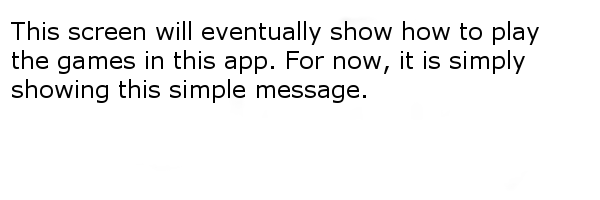
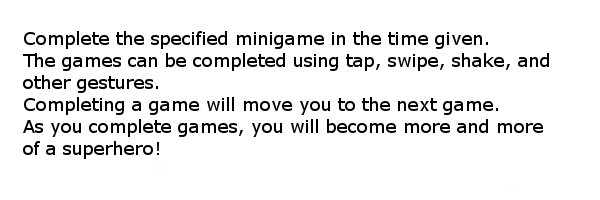
Changed message on HTP screen and size of buttons on HTP screen.

Changed region(s): [[0.0, 0.09, 0.93, 0.57], [0.03, 0.6, 0.93, 0.69], [0.03, 0.72, 0.27, 0.78]]

diff --git a/LibGDX_Generate/core/src/org/TheGivingChild/Engine/HowToPlay.java b/LibGDX_Generate/core/src/org/TheGivingChild/Engine/HowToPlay.java
@@ -61,7 +61,7 @@ public class HowToPlay extends ScreenAdapter{
 		//set font for buttons
 		BitmapFont font = game.getBitmapFontButton();
 		//variable to help with table positioning
-		int widthDivider = buttonAtlasNamesArray.length/2;
+		int widthDivider = buttonAtlasNamesArray.length;
 		//iterates over button names, allows for more buttons to be added
 		for(int i = 0; i < buttonAtlasNamesArray.length-1; i += game.BUTTON_STATES) {
 			TextButtonStyle tbs = new TextButtonStyle();
@@ -69,8 +69,8 @@ public class HowToPlay extends ScreenAdapter{
 			tbs.down = game.getButtonAtlasSkin().getDrawable("Buttons/"+buttonAtlasNamesArray[i]);
 			tbs.up = game.getButtonAtlasSkin().getDrawable("Buttons/"+buttonAtlasNamesArray[i+1]);
 			TextButton tb = new TextButton("", tbs);
-			tb.setSize(Gdx.graphics.getWidth()/widthDivider, Gdx.graphics.getHeight()/3);
-			t.add(tb).size(Gdx.graphics.getWidth()/widthDivider, Gdx.graphics.getHeight()/3);
+			tb.setSize(Gdx.graphics.getWidth()/widthDivider, Gdx.graphics.getHeight()/4);
+			t.add(tb).size(Gdx.graphics.getWidth()/widthDivider, Gdx.graphics.getHeight()/4);
 			buttonHeight = tb.getHeight();
 			final int j = i;
 			//listener to change screens on button press
